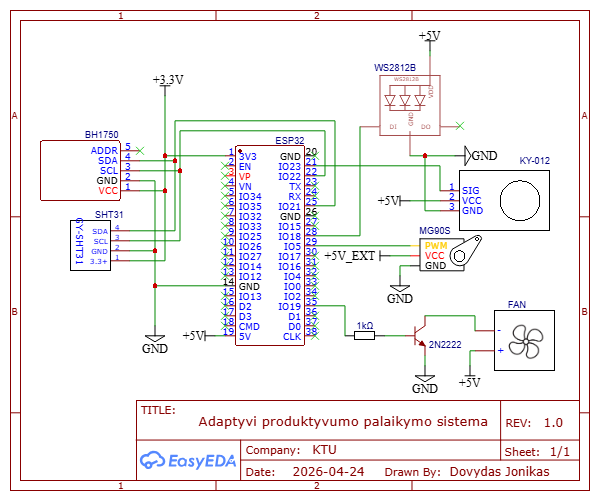
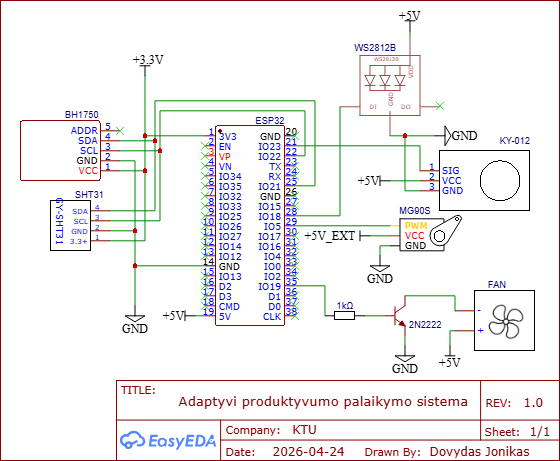
docs: crop schematic frame and collapse it behind a toggle

Changed region(s): [[0.0, 0.0, 1.0, 1.0]]

diff --git a/README.md b/README.md
@@ -97,7 +97,11 @@ Ships with **Focus**, **Break** and idle. New ones are made in the dashboard, no
 | 5V fan + 2N2222 | Air, switched by the microcontroller |
 | KY-012 buzzer | Check-in prompts and block boundaries |
 
-<p align="center"><img src="docs/images/schematic.png" width="600" alt="Circuit schematic"></p>
+<details>
+<summary><b>Circuit schematic</b></summary>
+<br>
+<p align="center"><img src="docs/images/schematic.png" width="560" alt="Circuit schematic"></p>
+</details>
 
 ## Quick start
 
